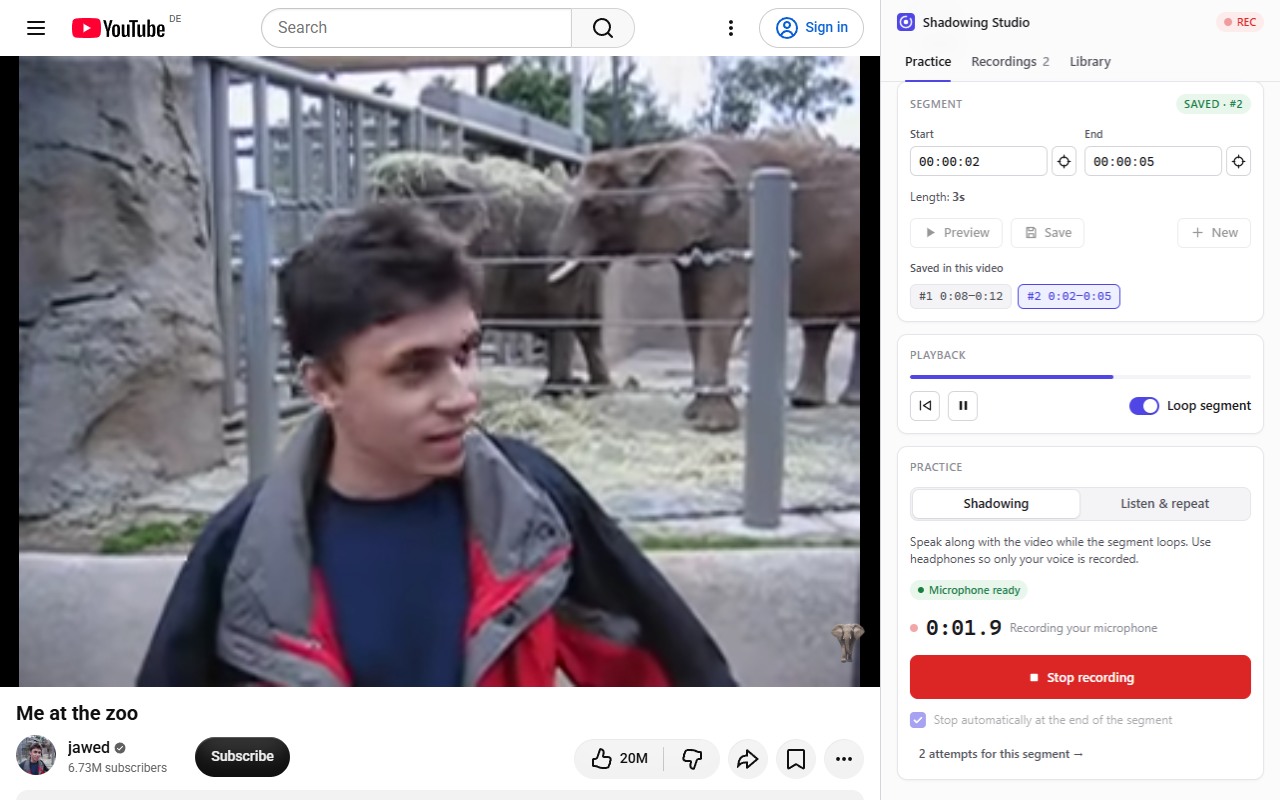
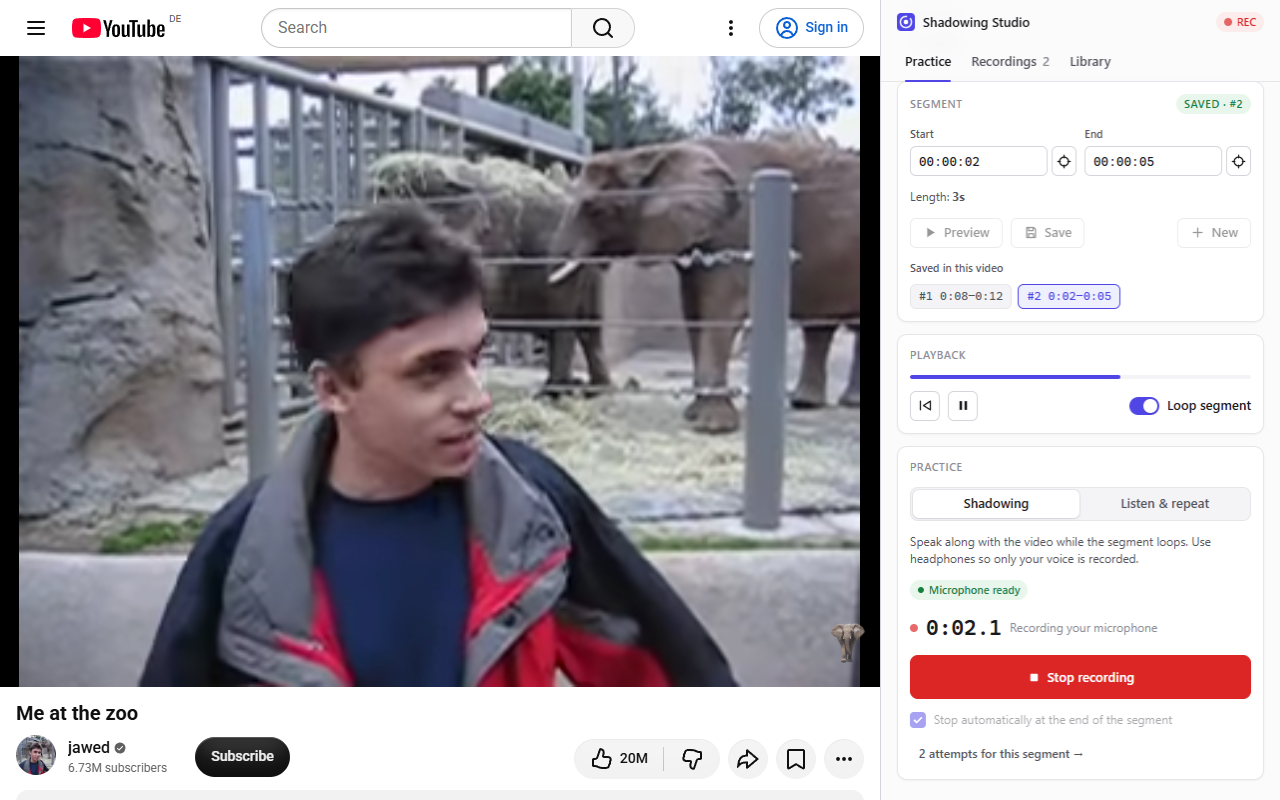
Recordings tab in the Library's style; attempt index; no saved tint
- Recordings uses the Library's layout: section titles, a grey header
  row with export, compact rows with actions on the right; Play original
  is the primary button like Practice
- Each attempt shows its index (#3, #2, #1), newest first; the detail
  line is date and duration, with the playback position beside the
  progress bar while playing
- Removed the tint on the just-saved attempt (the selection bar stays)
- e2e: checks attempt order/index and the absence of the tint; store
  screenshots regenerated

diff --git a/src/sidepanel/components/RecordingsView.tsx b/src/sidepanel/components/RecordingsView.tsx
@@ -1,14 +1,15 @@
 import { useEffect, useState } from 'react';
-import { formatClock } from '../../shared/time';
-import type { Recording, Segment } from '../../shared/types';
+import { formatClock, formatSegmentLength } from '../../shared/time';
+import { watchUrl, type Recording, type Segment } from '../../shared/types';
 import type { AttemptPlayer } from '../hooks';
-import { Card, ConfirmButton, Empty, formatBytes, formatDateTime, Icon } from './ui';
+import { Card, ConfirmButton, Empty, Icon } from './ui';
+
+const formatShortDateTime = (epochMs: number) => new Date(epochMs).toLocaleString(undefined, { dateStyle: 'short', timeStyle: 'short' });
 
 export interface RecordingsViewProps {
   segment: Segment | null;
   recordings: Recording[];
   player: AttemptPlayer;
-  highlightId: string | null;
   canControlVideo: boolean;
   busy: boolean;
   onPlayOriginal: () => void;
@@ -18,6 +19,7 @@ export interface RecordingsViewProps {
   onGoToPractice: () => void;
 }
 
+/** Laid out like the Library: section titles, a grey header row and compact rows with actions on the right. */
 export function RecordingsView(p: RecordingsViewProps) {
   // The attempt the user last interacted with; until then, the one playing.
   const [selectedId, setSelectedId] = useState<string | null>(null);
@@ -39,49 +41,65 @@ export function RecordingsView(p: RecordingsViewProps) {
     );
   }
   const seg = p.segment;
+  const n = p.recordings.length;
   return (
     <>
-      <Card
-        title={`Segment #${seg.number}`}
-        actions={
-          <span className="mono subtle" style={{ textTransform: 'none', letterSpacing: 0 }}>
-            {formatClock(seg.start)} – {formatClock(seg.end)}
-          </span>
-        }
-      >
-        <p className="hint" style={{ margin: 0 }}>
-          {seg.videoTitle || seg.videoId} · {seg.language}
-        </p>
-        <div className="row">
-          <button type="button" className="btn" onClick={p.onPlayOriginal} disabled={!p.canControlVideo || p.busy} title={p.canControlVideo ? undefined : 'Open this video to play the original'}>
-            <Icon name="play" /> Play original
-          </button>
-          <span className="grow" />
-          <button type="button" className="btn" onClick={() => p.onExport(p.recordings)} disabled={p.recordings.length === 0}>
-            <Icon name="download" /> Export all
-          </button>
+      <div className="group">
+        <h3 className="group-title">Segment</h3>
+        <div className="list">
+          <div className="video-head">
+            <a className="grow" href={watchUrl(seg.videoId, seg.start)} target="_blank" rel="noreferrer" title="Open on YouTube">
+              {seg.videoTitle || seg.videoId}
+            </a>
+            <button type="button" className="btn btn-sm btn-ghost btn-icon" onClick={() => p.onExport(p.recordings)} disabled={n === 0} aria-label="Export all attempts" title="Export all attempts">
+              <Icon name="download" />
+            </button>
+          </div>
+          <div className="list-item">
+            <div className="row nowrap">
+              <div className="grow">
+                <div className="item-title">
+                  <span className="seg-num">#{seg.number}</span>
+                  <span className="mono">
+                    {formatClock(seg.start)} – {formatClock(seg.end)}
+                  </span>
+                </div>
+                <div className="subtle">
+                  {formatSegmentLength(seg.end - seg.start)} · {n} attempt{n === 1 ? '' : 's'} · {seg.language || 'Unsorted'}
+                </div>
+              </div>
+              <button type="button" className="btn btn-sm btn-primary" onClick={p.onPlayOriginal} disabled={!p.canControlVideo || p.busy} title={p.canControlVideo ? undefined : 'Open this video to play the original'}>
+                <Icon name="play" /> Play original
+              </button>
+            </div>
+            {!p.canControlVideo && <p className="hint">Open this segment's video to play the original.</p>}
+          </div>
         </div>
-        {!p.canControlVideo && <p className="hint">Open this segment's video to play the original.</p>}
-      </Card>
+      </div>
 
       {p.player.error && <p className="error-text">{p.player.error}</p>}
 
-      {p.recordings.length === 0 ? (
-        <Card>
-          <Empty title="No attempts yet">Record an attempt in the Practice tab. Each attempt is kept separately.</Empty>
-        </Card>
-      ) : (
-        <div className="list" role="list" aria-label="Attempts">
-          {[...p.recordings].reverse().map((r) => (
-            <AttemptRow key={r.id} recording={r} {...p} selected={selected === r.id} onSelect={() => setSelectedId(r.id)} />
-          ))}
-        </div>
-      )}
+      <div className="group">
+        <h3 className="group-title">Attempts</h3>
+        {n === 0 ? (
+          <Card>
+            <Empty title="No attempts yet">Record an attempt in the Practice tab. Each attempt is kept separately.</Empty>
+          </Card>
+        ) : (
+          <div className="list" role="list" aria-label="Attempts">
+            {[...p.recordings]
+              .sort((a, b) => b.attempt - a.attempt)
+              .map((r) => (
+                <AttemptRow key={r.id} recording={r} {...p} selected={selected === r.id} onSelect={() => setSelectedId(r.id)} />
+              ))}
+          </div>
+        )}
+      </div>
     </>
   );
 }
 
-function AttemptRow({ recording: r, player, highlightId, busy, onDelete, onUpdate, onExport, selected, onSelect }: RecordingsViewProps & { recording: Recording; selected: boolean; onSelect: () => void }) {
+function AttemptRow({ recording: r, player, busy, onDelete, onUpdate, onExport, selected, onSelect }: RecordingsViewProps & { recording: Recording; selected: boolean; onSelect: () => void }) {
   const [name, setName] = useState(r.name);
   const [notes, setNotes] = useState(r.notes);
   const [showNotes, setShowNotes] = useState(!!r.notes);
@@ -96,44 +114,49 @@ function AttemptRow({ recording: r, player, highlightId, busy, onDelete, onUpdat
 
   return (
     // Any interaction inside the row (play, name, notes, export, delete) makes it the selected attempt.
-    <div role="listitem" className={`list-item ${highlightId === r.id ? 'highlight' : ''} ${selected ? 'selected' : ''}`} onPointerDown={onSelect} onFocus={onSelect}>
+    <div role="listitem" className={`list-item ${selected ? 'selected' : ''}`} onPointerDown={onSelect} onFocus={onSelect}>
       <div className="row nowrap">
-        <button type="button" className={`btn btn-icon ${isPlaying ? 'active' : ''}`} onClick={() => (isPlaying ? player.pause() : player.play(r))} disabled={busy} aria-label={isPlaying ? `Pause ${title}` : `Play ${title}`}>
-          <Icon name={isPlaying ? 'pause' : 'play'} />
-        </button>
         <div className="grow">
-          <input
-            className="name-input"
-            value={name}
-            placeholder={title}
-            aria-label={`Name of ${title}`}
-            maxLength={80}
-            onChange={(e) => setName(e.target.value)}
-            onBlur={() => name !== r.name && onUpdate(r, { name: name.trim() })}
-            onKeyDown={(e) => e.key === 'Enter' && (e.target as HTMLInputElement).blur()}
-          />
-          <div className="subtle">
-            {name ? `${title} · ` : ''}
-            {formatDateTime(r.createdAt)} · <span className="mono">{isCurrent ? `${formatClock(position)} / ` : ''}{formatClock(duration)}</span> · {formatBytes(r.blob.size)}
-            {r.recovered ? ' · recovered' : ''}
+          <div className="item-title attempt-title">
+            <span className="seg-num">#{r.attempt}</span>
+            <input
+              className="name-input"
+              value={name}
+              placeholder="Add a name…"
+              aria-label={`Name of ${title}`}
+              maxLength={80}
+              onChange={(e) => setName(e.target.value)}
+              onBlur={() => name !== r.name && onUpdate(r, { name: name.trim() })}
+              onKeyDown={(e) => e.key === 'Enter' && (e.target as HTMLInputElement).blur()}
+            />
+          </div>
+          <div className="subtle attempt-meta">
+            <span>{formatShortDateTime(r.createdAt)}</span>
+            <span className="mono">{formatClock(duration)}</span>
+            {r.recovered && <span>recovered</span>}
           </div>
         </div>
-      </div>
-      {isCurrent && duration > 0 && (
-        <div className="progress" aria-hidden>
-          <span style={{ width: `${(position / duration) * 100}%` }} />
-        </div>
-      )}
-      <div className="row">
-        <button type="button" className={`btn btn-sm btn-ghost ${showNotes ? 'active' : ''}`} onClick={() => setShowNotes((v) => !v)} aria-expanded={showNotes}>
-          <Icon name="notes" /> Notes
+        <button type="button" className="btn btn-sm btn-primary btn-play" onClick={() => (isPlaying ? player.pause() : player.play(r))} disabled={busy} aria-label={isPlaying ? `Pause ${title}` : `Play ${title}`}>
+          <Icon name={isPlaying ? 'pause' : 'play'} /> {isPlaying ? 'Pause' : 'Play'}
         </button>
-        <span className="grow" />
+        <button type="button" className={`btn btn-sm btn-ghost btn-icon ${showNotes ? 'active' : ''}`} onClick={() => setShowNotes((v) => !v)} aria-expanded={showNotes} aria-label="Notes" title="Notes">
+          <Icon name="notes" />
+        </button>
         <button type="button" className="btn btn-sm btn-ghost btn-icon" onClick={() => onExport([r])} aria-label={`Export ${title}`} title="Export">
           <Icon name="download" />
         </button>
         <ConfirmButton small label={`Delete ${title}`} confirmLabel="Delete" onConfirm={() => onDelete(r)} disabled={busy} />
       </div>
+      {isCurrent && duration > 0 && (
+        <div className="row nowrap">
+          <div className="progress grow" aria-hidden>
+            <span style={{ width: `${(position / duration) * 100}%` }} />
+          </div>
+          <span className="mono subtle">
+            {formatClock(position)} / {formatClock(duration)}
+          </span>
+        </div>
+      )}
       {showNotes && (
         <textarea
           className="input"

diff --git a/src/sidepanel/App.tsx b/src/sidepanel/App.tsx
@@ -69,7 +69,6 @@ export function App() {
   const [notice, setNotice] = useState<Notice | null>(null);
   const [toastHovered, setToastHovered] = useState(false);
   const [unsaved, setUnsaved] = useState<{ blob: Blob; mimeType: string } | null>(null);
-  const [highlightId, setHighlightId] = useState<string | null>(null);
   const [libraryVersion, bumpLibrary] = useReducer((x: number) => x + 1, 0);
 
   const connRef = useRef<PlayerConnection | null>(null);
@@ -139,7 +138,6 @@ export function App() {
   }, []);
 
   live.current.onSaved = (rec) => {
-    setHighlightId(rec.id);
     setNotice({ tone: 'success', text: `Attempt ${rec.attempt} saved.` });
     void refreshRecordings(rec.segmentId);
     bumpLibrary();
@@ -259,7 +257,6 @@ export function App() {
     setWs({ videoId: seg.videoId, segmentId: seg.id, startText: formatTimestamp(seg.start, 'floor'), endText: formatTimestamp(seg.end, 'ceil') });
     setSaved(seg);
     setLanguage(seg.language);
-    setHighlightId(null);
     void refreshRecordings(seg.id);
   }
 
@@ -611,7 +608,6 @@ export function App() {
             segment={saved}
             recordings={recordings}
             player={attemptPlayer}
-            highlightId={highlightId}
             canControlVideo={onCurrentVideo && !!bounds}
             busy={recStatus !== 'idle'}
             onPlayOriginal={() => {

diff --git a/src/sidepanel/styles.css b/src/sidepanel/styles.css
@@ -785,6 +785,23 @@ select.input {
   margin-right: var(--space-2);
 }
 
+/* Attempt rows: "#3" followed by the editable name, on one line. */
+.attempt-title {
+  display: flex;
+  align-items: center;
+  min-width: 0;
+}
+
+.attempt-title .seg-num {
+  flex: none;
+  margin-right: 4px;
+}
+
+/* Keeps the button the same width when it switches between Play and Pause. */
+.btn-play {
+  min-width: 68px;
+}
+
 .name-input {
   border: 1px solid transparent;
   background: transparent;
@@ -902,4 +919,10 @@ select.input {
 
 .permission-status[data-tone='error'] {
   color: var(--danger);
+}
+
+.attempt-meta span + span::before {
+  content: '·';
+  margin: 0 5px;
+  font-family: var(--font);
 }

diff --git a/README.md b/README.md
@@ -149,7 +149,7 @@ a REC badge on the toolbar icon show it is active.
 - `filename.test.ts`: sanitisation, reserved names, export paths, de-duplication, `info.json`.
 
 `npm run test:e2e` drives your installed Chrome (via `playwright-core`; no browser download) against a real
-YouTube video with Chrome's **fake microphone**. It runs 39 checks, all passing on the last run: install,
+YouTube video with Chrome's **fake microphone**. It runs 41 checks, all passing on the last run: install,
 connect, timestamps, loop bounds at 0.5×/1×/2×, loop off, REC badge, shadowing auto-stop, listen & repeat
 pause and record, decoded WebM/Opus audio with a duration header, playback, rename, attempt highlighting, play original, toasts, export folder
 structure, delete, SPA navigation, no console errors, **library and recordings after restarting Chrome**,
